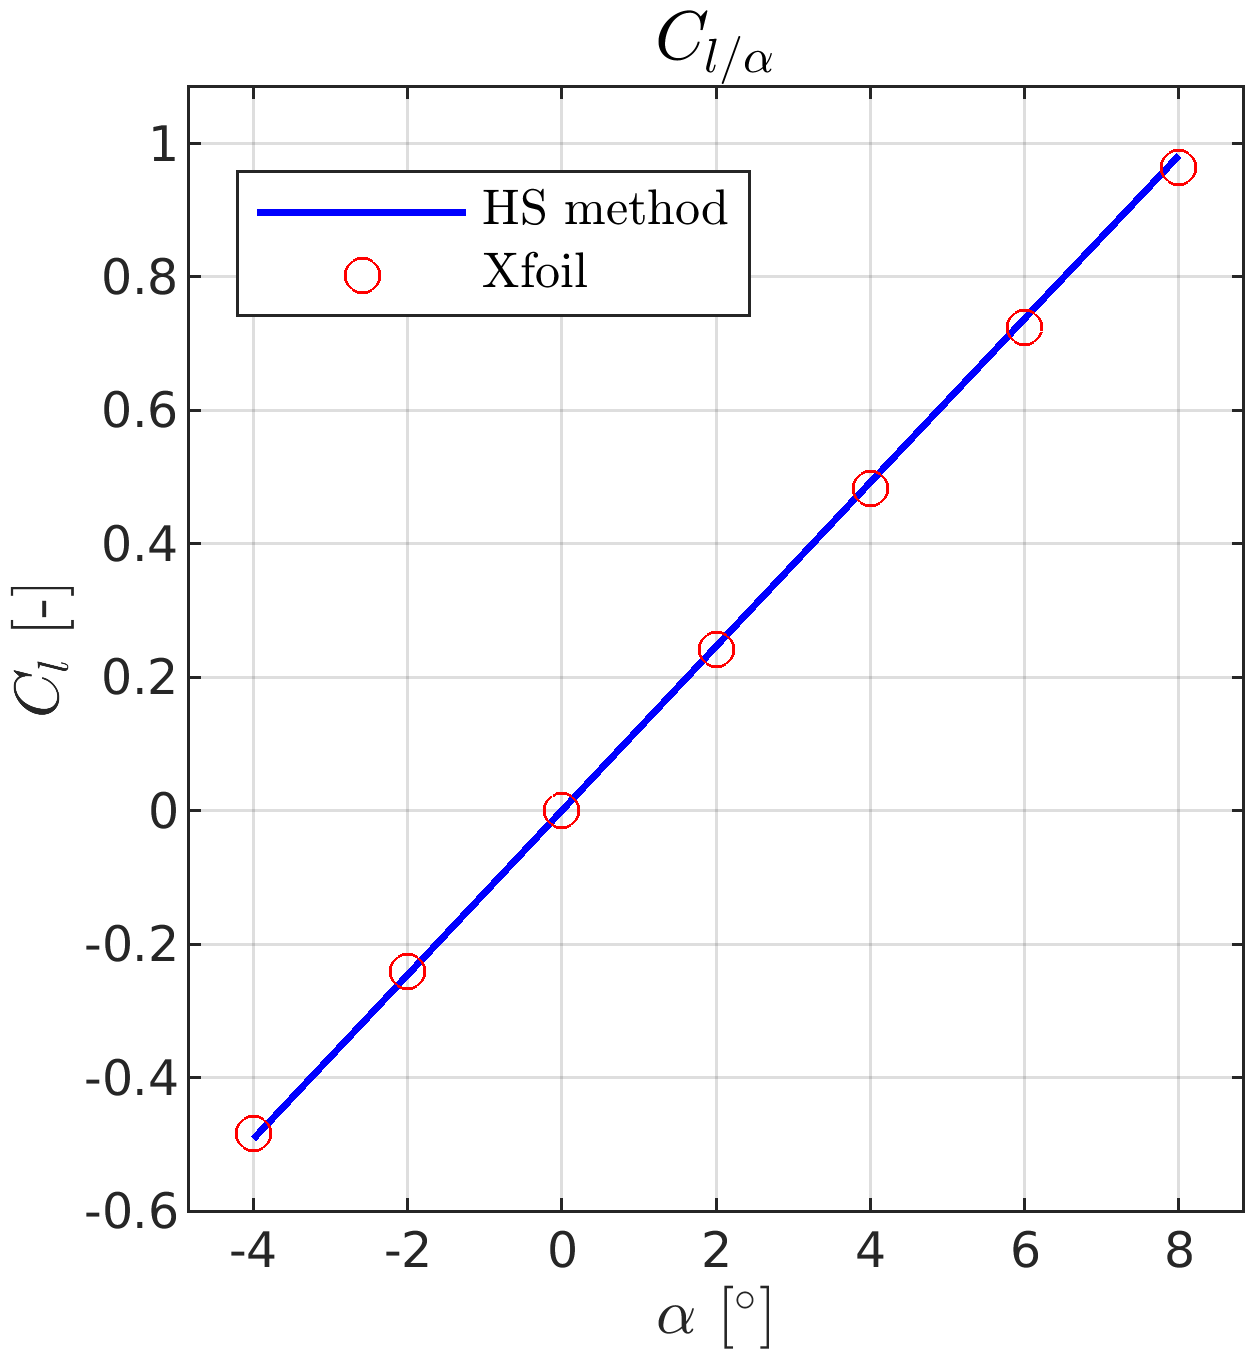
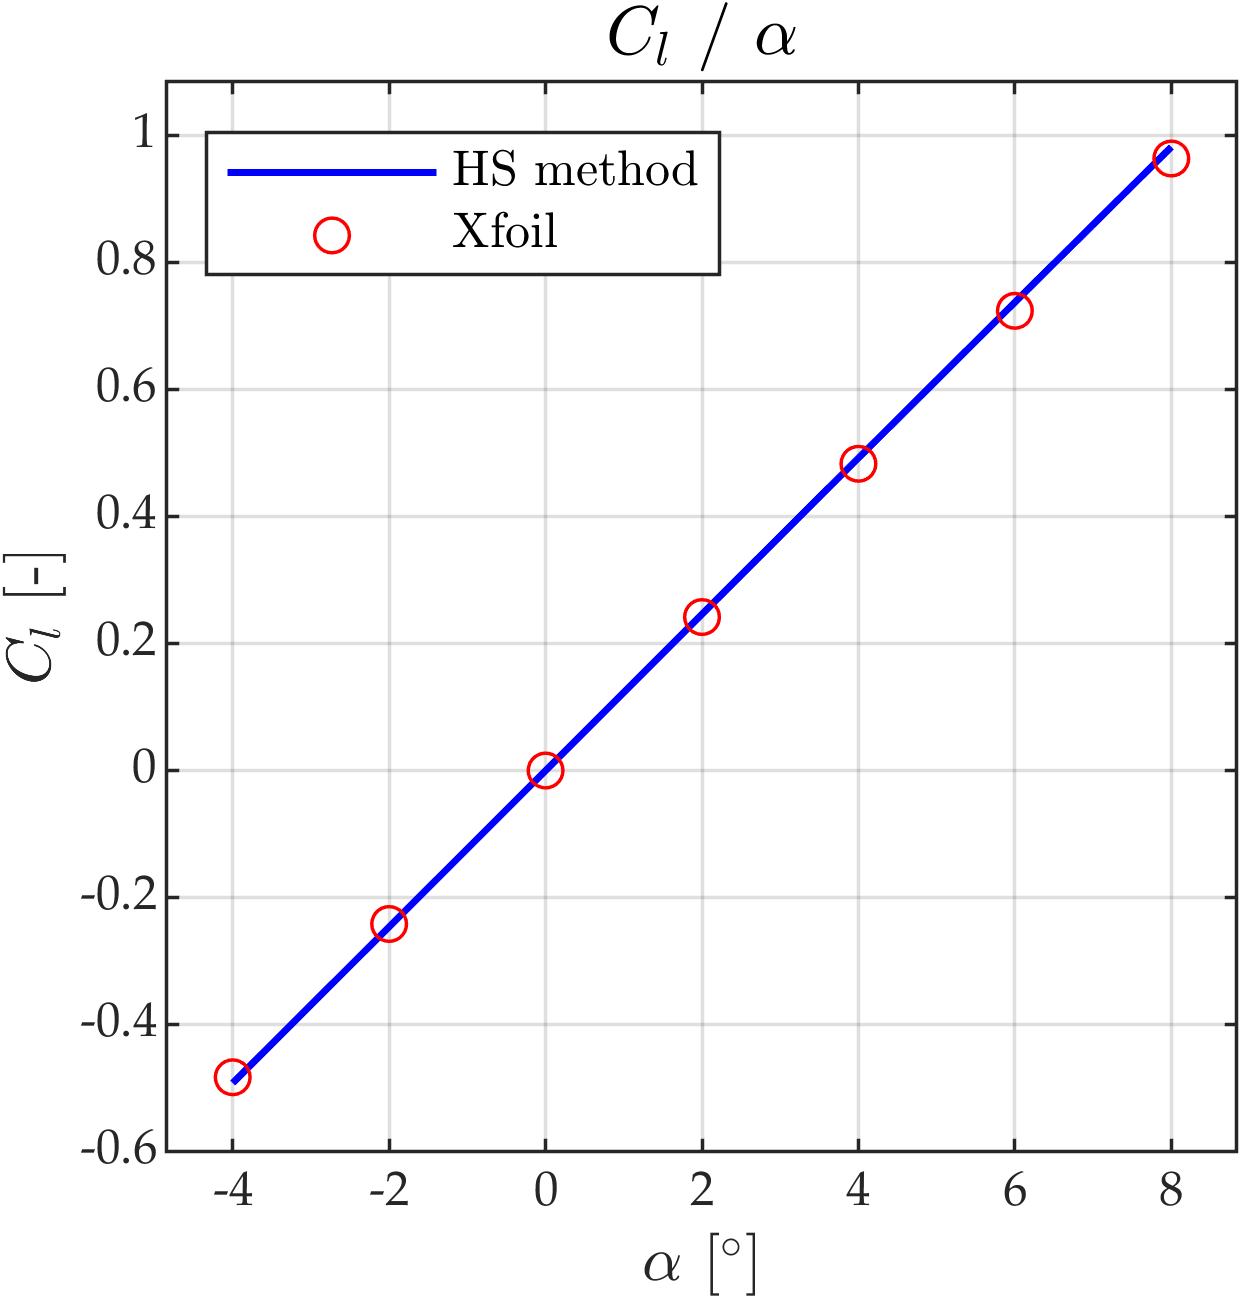
HessSmith Final graphic tuning

diff --git a/Hess-Smith/main.m b/Hess-Smith/main.m
@@ -35,7 +35,7 @@ figure_CpCompare = figure;  hold on;
     
     % title and legend definition
     fontsize(7,"points");
-    legend('HS method dorso', 'HS method ventre','Xfoil', 'fontsize', fSizeLeg, 'interpreter', 'latex')
+    legend('HS method ventre', 'HS method dorso','Xfoil', 'fontsize', fSizeLeg, 'interpreter', 'latex')
     t_string = ['$C_P$ at $\alpha=$ ',num2str(alpha_Cp), '$^{\circ}$'];
     title(t_string,'fontsize', fSizeTit, 'fontweight', 'bold', 'interpreter', 'latex')
     
@@ -82,7 +82,7 @@ figure_ClAlphaCompare = figure;  hold on;
     % title and legend definition
     fontsize(7,"points");
     legend('HS method ', 'Xfoil', 'fontsize', fSizeLeg, 'interpreter', 'latex', 'Location','northwest')
-    t_string = '$C_{l/\alpha}$';
+    t_string = '$C_{l}$ / $\alpha$';
     title(t_string,'fontsize', fSizeTit, 'fontweight', 'bold', 'interpreter', 'latex')
 
     % axis definition
@@ -104,7 +104,7 @@ exportgraphics(figure_ClAlphaCompare,'figures\plot_ClAlphaCompare.png','Resoluti
 % Condizione 
 U_inf = 1;
 alpha = 0;
-calettAng = (-2:1:4)';
+calettAng = (-2:1:6)';
 
 % Caso senza effetto suolo
 EffettoSuolo = false;
@@ -117,7 +117,7 @@ end
 
 % Caso effetto suolo
 EffettoSuolo = true;
-altezzaSuolo = (0.5:0.2:1.5)';
+altezzaSuolo = [0.2 0.4 0.6 0.8 1]';
 Cl_matrix_Ground = zeros(length(calettAng),length(altezzaSuolo));
 
 for i=1:length(calettAng)
@@ -151,7 +151,7 @@ figure_GroundEffectHfloor = figure;  hold on;
 
     % axis definition
     xticks(altezzaSuolo(:,1))
-    xlabel('$h$ [m]','fontsize', fSize, 'interpreter', 'latex')
+    xlabel('$h/c$ [-]','fontsize', fSize, 'interpreter', 'latex')
     ylabel('$C_{l}$','fontsize', fSize, 'interpreter', 'latex')
 
     % layout settings
@@ -178,7 +178,7 @@ figure_GroundEffectAlpha = figure;  hold on;
     colormap('winter');
     clim([altezzaSuolo(1),altezzaSuolo(end)])
     cbar_hloor = colorbar('Ticks',altezzaSuolo);
-    cbar_hloor.Label.String = '$h$ [m]';
+    cbar_hloor.Label.String = '$h/c$ [-]';
     cbar_hloor.Label.Interpreter = 'latex';
     
     % title and legend definition
@@ -189,7 +189,7 @@ figure_GroundEffectAlpha = figure;  hold on;
     
     % axis definition
     xticks(calettAng(:,1))
-    xlabel('$h$ [m]','fontsize', fSize, 'interpreter', 'latex')
+    xlabel('$\alpha$ [$^{\circ}$]','fontsize', fSize, 'interpreter', 'latex') 
     ylabel('$C_{l}$','fontsize', fSize, 'interpreter', 'latex')
     
     % layout settings
@@ -201,13 +201,52 @@ figure_GroundEffectAlpha = figure;  hold on;
 exportgraphics(figure_GroundEffectAlpha,'figures\plot_GroundEffectAlpha.png','Resolution',500);
 
 
+% Plot Cl-alpha ZOOM (parametro altezza)
+figure_GroundEffectAlphaZoom = figure;  hold on;
+    cmap_hfloor = winter(length(altezzaSuolo));     % colormap definition
+
+    xf_plot = plot(calettAng(:,1), Cl_matrix_NoGround(:,1), '--');
+
+    for i=1:length(altezzaSuolo)
+        plot(calettAng(:,1),Cl_matrix_Ground(:,i), 'o-', 'LineWidth', 1, 'Color', cmap_hfloor(i,:) )
+        hold on
+    end
+    
+    % colorbar definition
+    colormap('winter');
+    clim([altezzaSuolo(1),altezzaSuolo(end)])
+    cbar_hloor = colorbar('Ticks',altezzaSuolo);
+    cbar_hloor.Label.String = '$h/c$ [-]';
+    cbar_hloor.Label.Interpreter = 'latex';
+    
+    % title and legend definition
+    fontsize(7,"points");
+    legend(xf_plot,'xfoil', 'fontsize', fSizeLeg, 'interpreter', 'latex', 'Location','northwest')
+    t_string = '$C_l$ vs $\alpha$ $zoom$';
+    title(t_string,'fontsize', fSizeTit, 'fontweight', 'bold', 'interpreter', 'latex')
+    
+    % axis definition
+    xticks(calettAng(:,1))
+    xlabel('$\alpha$ [$^{\circ}$]','fontsize', fSize, 'interpreter', 'latex')
+    ylabel('$C_{l}$','fontsize', fSize, 'interpreter', 'latex')
+    
+    % layout settings
+    axis padded
+    grid on
+    box on
+     xlim([2.8 6.2])
+    fontname(figure_GroundEffectAlphaZoom,"Palatino Linotype")
+    set(figure_GroundEffectAlphaZoom,'units','centimeters','position',[0,0,10,7]);   % setted for the report layout
+exportgraphics(figure_GroundEffectAlphaZoom,'figures\plot_GroundEffectAlphaZoom.png','Resolution',500);
+
+
 %% Plot andamento Cp-altezza-alpha su un singolo profilo
  
 U_inf = 1;
 alpha = 0;
 NCorpi = 1;
-calettAng = [-4 4 8]';
-altezzaSuolo = [0.5 1]';
+calettAng = [2 4 8]';
+altezzaSuolo = [0.2 0.8]';
 
 cmap_cp = hsv(length(altezzaSuolo)+1);     % colormap definition
 clString = cell(length(altezzaSuolo)+1,1);      % cl string cell definition
@@ -238,7 +277,7 @@ for i=1:length(calettAng)
 
     % axis definition
     ylabel('$-C_{P}$ [-]','fontsize', fSize, 'interpreter', 'latex')
-    ylim([-1.2 4.5])                                                    % To set manually for the moment
+    ylim([-1.2 5])                                                    % To set manually for the moment
     xlabel('$x/c$ [-]','fontsize', fSize, 'interpreter', 'latex')
     grid on
     box on
@@ -246,13 +285,13 @@ for i=1:length(calettAng)
 end
 
     % colorbar definition
-    alphaColorBar = [altezzaSuolo; 1.5];
+    alphaColorBar = [altezzaSuolo; 1.4];
     colormap(cmap_cp);
     clim([alphaColorBar(1), alphaColorBar(end)])
     cbar_CpFloor = colorbar('Ticks',alphaColorBar,'TickLabelsMode', 'manual');
-    cbar_CpFloor.TickLabels = {'0.5','1','$\infty$'};
+    cbar_CpFloor.TickLabels = {'0.2','0.8', '$\infty$'};            % To set manually for the moment
     cbar_CpFloor.TickLabelInterpreter = 'latex'; 
-    cbar_CpFloor.Label.String = '$h$ [m]';
+    cbar_CpFloor.Label.String = '$h/c$ [-]';
     cbar_CpFloor.Label.Interpreter = 'latex';
 
 set(gcf,'units','centimeters','position',[0,0,20,7]);   % setted for the report layout    
